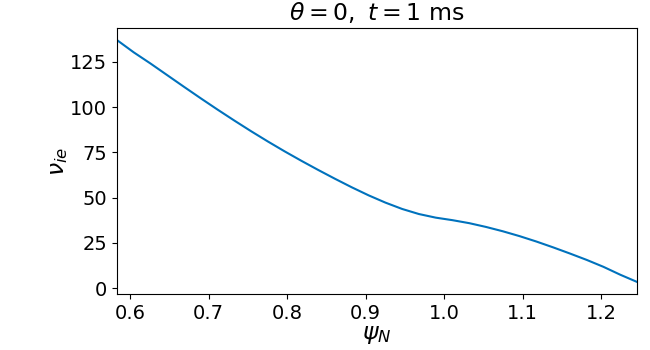
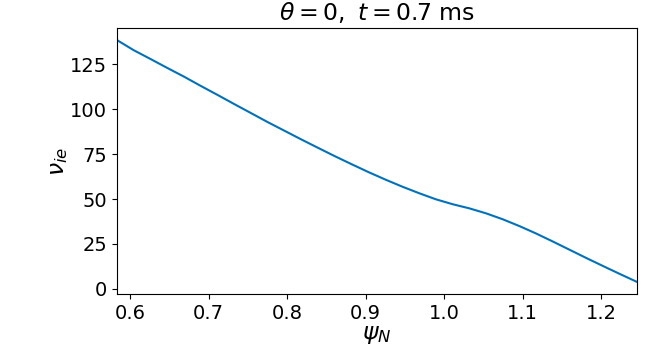
Update gkeyll li863mg base nu plots.

diff --git a/gkeyll/postprocess_gkeyll_ltx_2x.py b/gkeyll/postprocess_gkeyll_ltx_2x.py
@@ -22,13 +22,13 @@ import ltx_common_util as lcu
 #[ Plotting options.
 plot_grid_RZ          = False  #[ Grid on RZ plane.
 plot_vs_x             = False  #[ A quantity at the outboard midplane.
-plot_nT_vs_x          = True  #[ Sensity and temperature profiles vs. x.
+plot_nT_vs_x          = False  #[ Sensity and temperature profiles vs. x.
 plot_src_mom_vs_x     = False  #[ Source moments vs. x.
 plot_src_int_mom_vs_t = False  #[ Source integrated moments vs. t.
 plot_vs_RZ            = False  #[ A quantity at the R-Z midplane.
 plot_nT_vs_x_multisim = False  #[ Density and temperature profiles vs. x for multiple sims.
 plot_nu_RZ            = False  #[ Collision frequency on RZ plane.
-plot_nu_vs_x          = False  #[ Collision frequency vs. x.
+plot_nu_vs_x          = True  #[ Collision frequency vs. x.
 plot_int_mom_vs_t     = False   #[ Integrated moments vs. t.
 
 out_data_dir  = './data/'
@@ -968,18 +968,18 @@ def calc_normNu(ns, nr, ms, mr, qs, qr, Ts, Tr, bmag_mid, eps0, hbar, eV):
 if plot_nu_vs_x:
   #[ Plot the collision frequency vs. x.
 
-  plot_nuStar = False
-#  data_dir = '/pscratch/sd/m/mana/gkeyll/ltx/2d/li863mg_103955_04-base/'
-#  fig_file_name_root = lcu.li863_prefix+'final_'
-  data_dir = '/pscratch/sd/m/mana/gkeyll/ltx/2d/lipass_103795_03-base/'
-  fig_file_name_root = lcu.lipass_prefix+'final_'
-  frame    = 20
+  plot_nuStar = True
+  data_dir = '/pscratch/sd/m/mana/gkeyll/ltx/2d/li863mg_103955_04-base/'
+  fig_file_name_root = lcu.li863_prefix+'final_'
+#  data_dir = '/pscratch/sd/m/mana/gkeyll/ltx/2d/lipass_103795_03-base/'
+#  fig_file_name_root = lcu.lipass_prefix+'final_'
+  frame    = 14
   species  = ['elc','elc'] #[ A combination of 'ion' and 'elc', e.g. ['elc','ion'] for nu_ei.
   x_axis_psi_N = True #[ Whether to put x-axis in rho_pol.
   
   #[ Get indices along z of slices we wish to plot:
   plotz = 0.0
-  title_str = r'$\theta=0,~t=1~\mathrm{ms}$'
+  title_str = r'$\theta=0,~t=0.7~\mathrm{ms}$'
 
   eq_meta = get_equilibrium_meta(data_dir)
   Lc = eq_meta["Lc_LCFS_OMP"]
